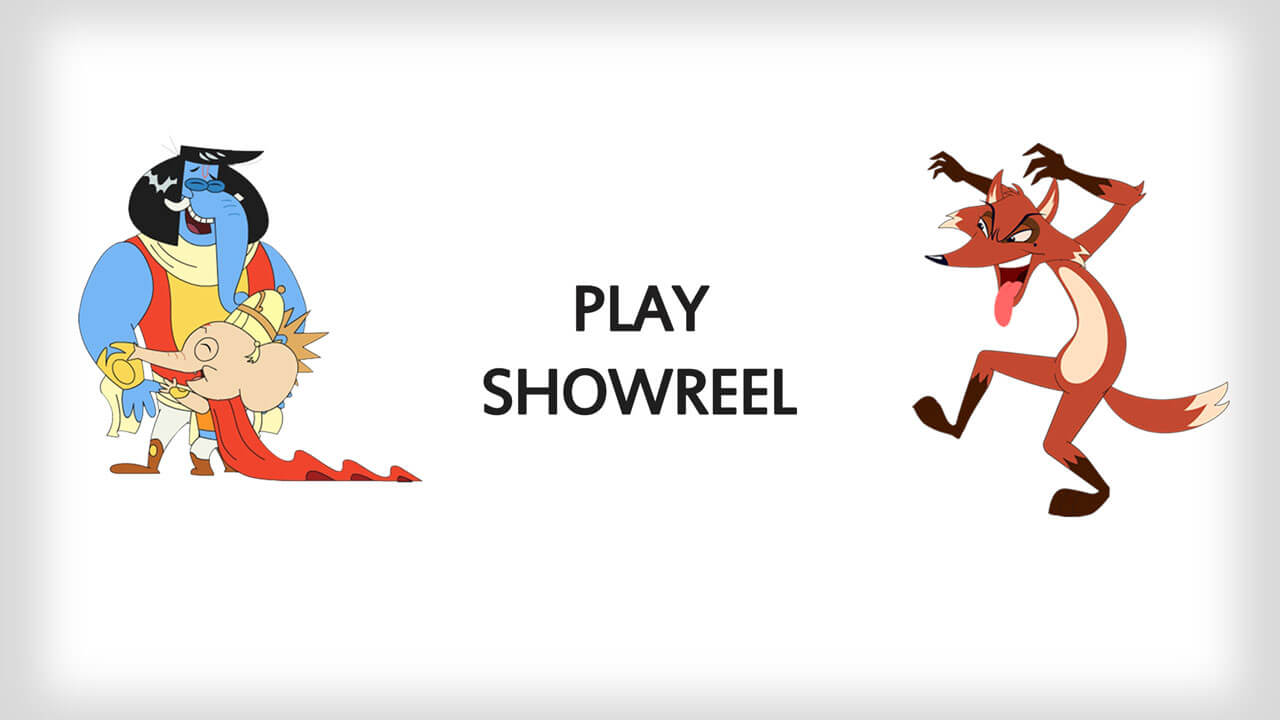
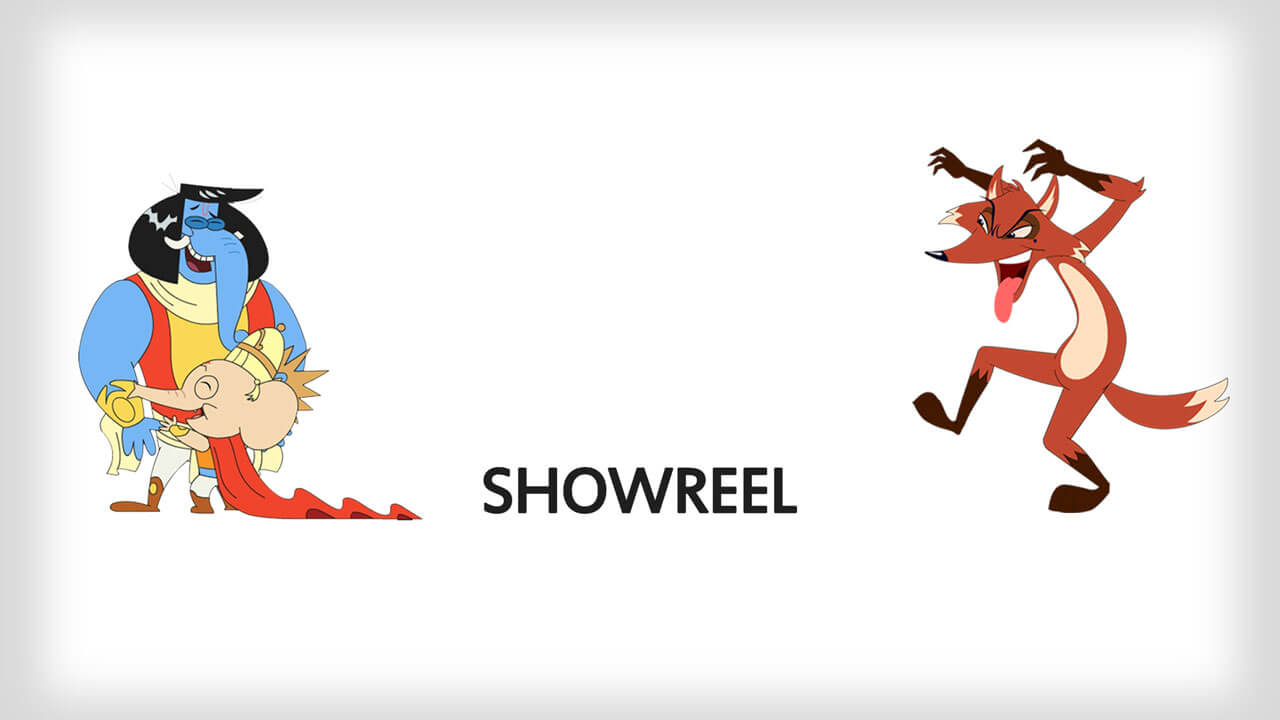
Added play img on showreel img

diff --git a/index.html b/index.html
@@ -426,9 +426,10 @@ story to engaging and captivating entertainment content</p>
             <div class="container-fluid">
                 <div class="row">
                     <!-- section image -->
-                    <div id=showreel class="col-md-7 col-sm-7 col-xs-12 no-padding architecture-title cover-background overflow-hidden" >
+                    <div id=showreel class="col-md-7 col-sm-7 col-xs-12 no-padding architecture-title cover-background overflow-hidden" style="position: relative; left: 0; top: 0;" >
                         <a data-toggle="modal" data-target="#ModalGallery">
-                          <img data-video="172868964" src="images/showreel2.jpg" alt=""/>
+                          <img data-video="172868964" src="images/showreel2.jpg"  style="position: relative; top: 30; left: 70;"/>
+                            <img src="images/play.png" style="position: absolute; top: 27%; left: 45%;"/>
                         </a>
 
                     </div>

diff --git a/js/main.js b/js/main.js
@@ -702,7 +702,7 @@ $(function () {
           owlModal.empty();
 
           if (videoId != null){
-            videoSrc = "https://player.vimeo.com/video/"+videoId
+            videoSrc = "https://player.vimeo.com/video/"+videoId+"?autoplay=1"
             $('<iframe>', {'src' : videoSrc}).appendTo(owlModal);
           }else{
             var item = $('<div>', {'class' : 'item'}).appendTo(owlModal);
